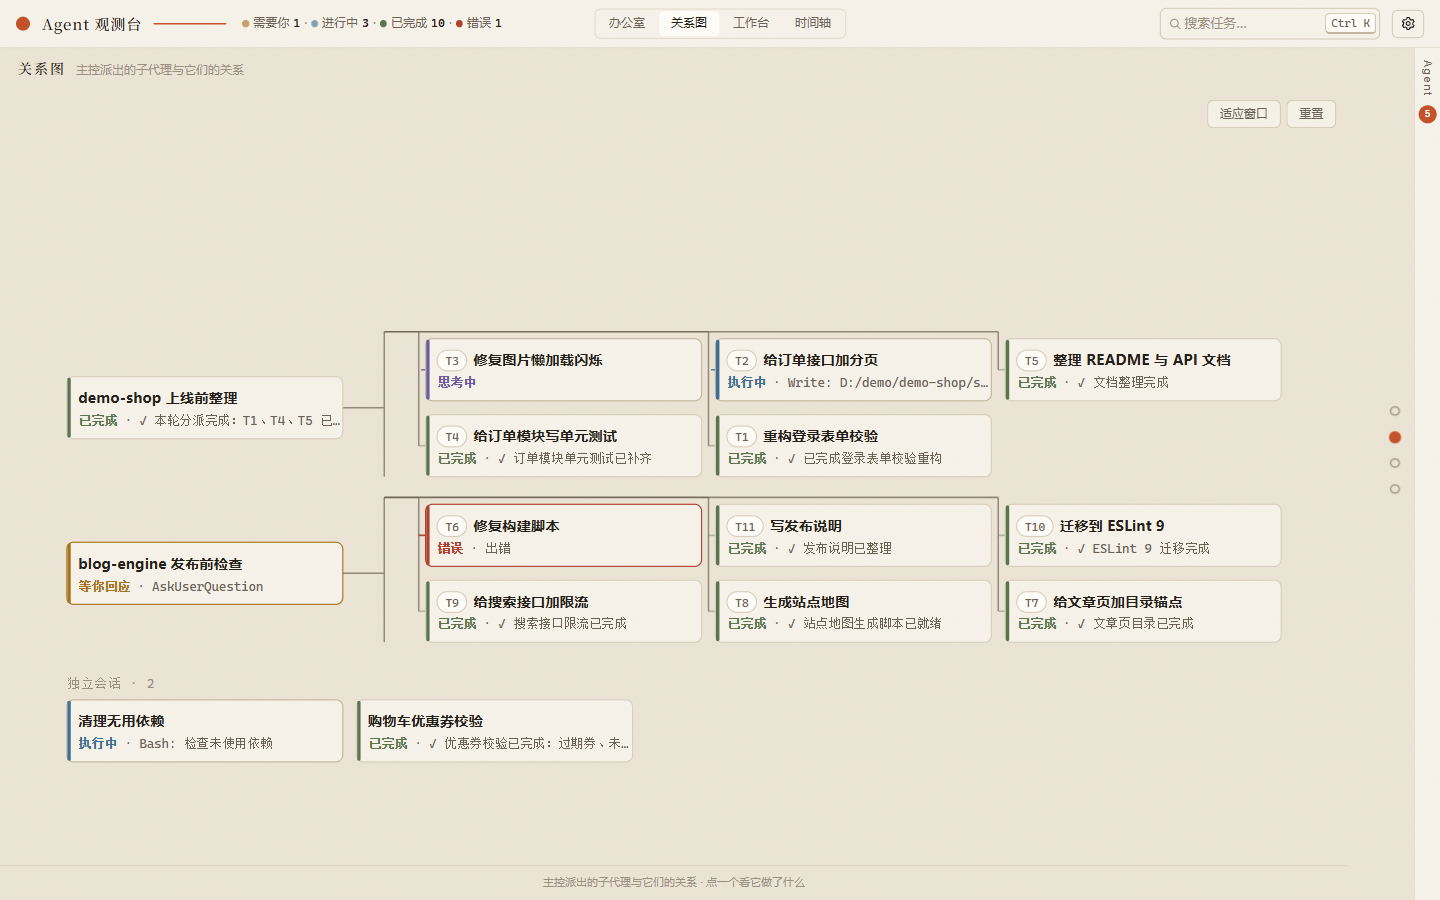
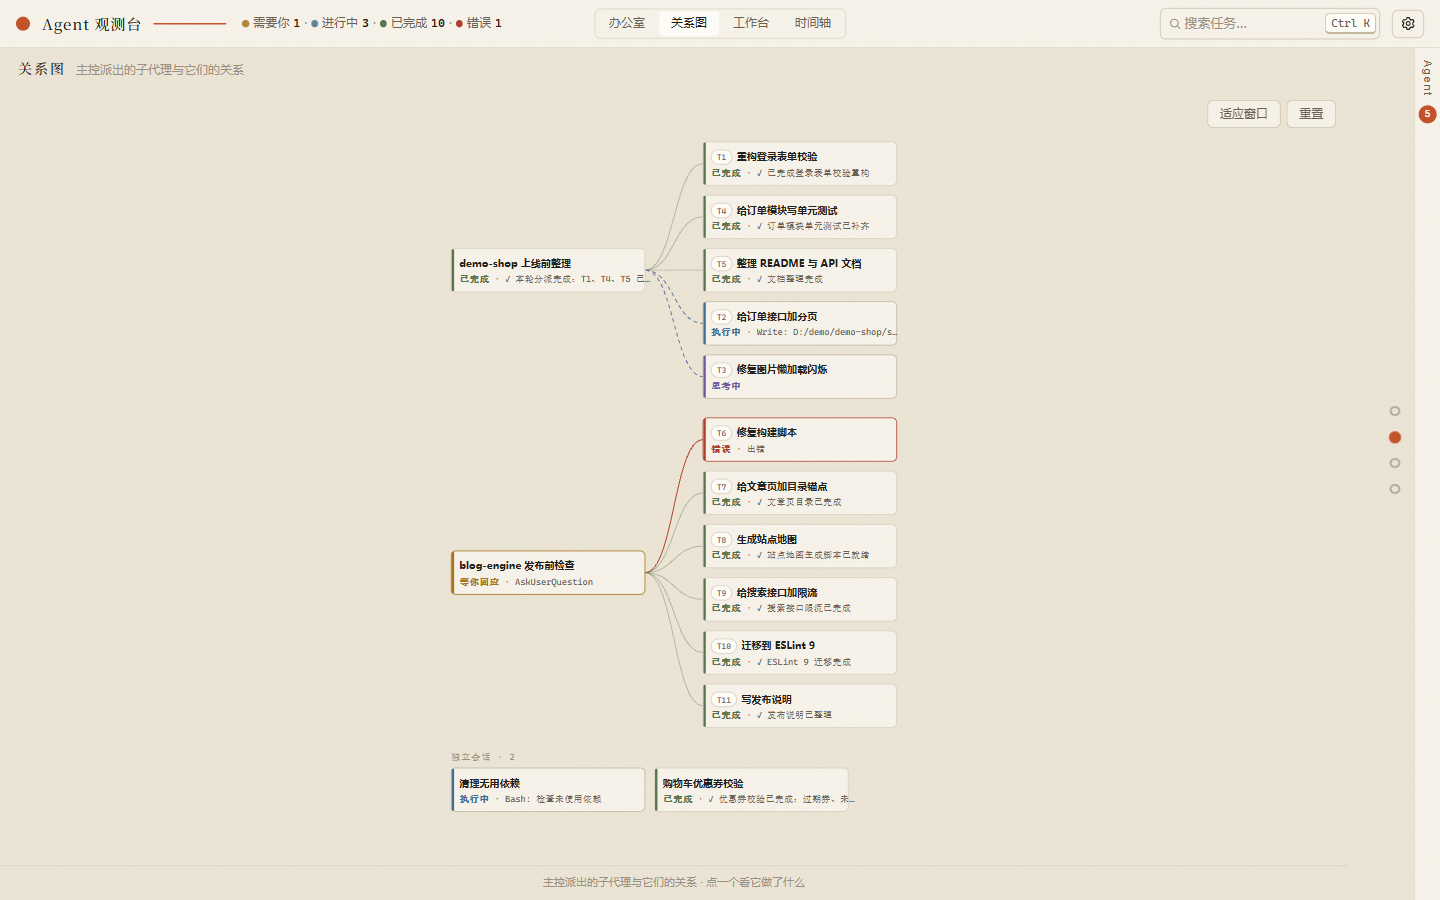
T12：关系图恢复按状态上色的连线

diff --git a/public/ui/topo.js b/public/ui/topo.js
@@ -27,7 +27,7 @@
   const GROUP_GAP = 24;
   const GRID_GAP = 12;
   const PAD = 32;
-  const SMALL_MAX = 4;     // above this a group switches to the bus + grid layout
+  const SMALL_MAX = 8;     // above this a group switches to the bus + grid layout
   const DONE_LIMIT = 12;   // more completed children than this fold into one node
 
   const SANS = '600 12.5px "Microsoft YaHei UI","PingFang SC",system-ui,sans-serif';
@@ -309,21 +309,37 @@
     const bottom = gridTop + gridH;
     const mx = PAD + NODE_W;
     const my = masterY + NODE_H / 2;
-    busList.push({ rootKey: rootS.key, d: `M${mx.toFixed(1)} ${my.toFixed(1)}H${busX.toFixed(1)}M${busX.toFixed(1)} ${feedY.toFixed(1)}V${bottom.toFixed(1)}` });
+    busList.push({ type: 'trunk', rootKey: rootS.key, d: `M${mx.toFixed(1)} ${my.toFixed(1)}H${busX.toFixed(1)}M${busX.toFixed(1)} ${feedY.toFixed(1)}V${bottom.toFixed(1)}` });
     colsData.forEach((nodes, col) => {
       if (!nodes.length) return;
       const colBusX = gridX + col * (NODE_W + GRID_GAP) - GRID_GAP / 2;
       const colBottom = Math.max(...nodes.map((n) => n.y + n.h / 2));
-      busList.push({ rootKey: rootS.key, d: `M${busX.toFixed(1)} ${feedY.toFixed(1)}H${colBusX.toFixed(1)}M${colBusX.toFixed(1)} ${feedY.toFixed(1)}V${colBottom.toFixed(1)}` });
+      busList.push({ type: 'trunk', rootKey: rootS.key, d: `M${busX.toFixed(1)} ${feedY.toFixed(1)}H${colBusX.toFixed(1)}M${colBusX.toFixed(1)} ${feedY.toFixed(1)}V${colBottom.toFixed(1)}` });
       for (const n of nodes) {
         const cy = n.y + n.h / 2;
-        busList.push({
-          rootKey: rootS.key,
-          d: `M${colBusX.toFixed(1)} ${cy.toFixed(1)}H${n.x.toFixed(1)}`,
-          to: n.summary ? `summary:${rootS.key}` : n.p.s.key,
-          status: n.summary ? 'done' : (n.p.s.status || 'idle'),
-          summary: !!n.summary,
-        });
+        const to = n.summary ? `summary:${rootS.key}` : n.p.s.key;
+        const status = n.summary ? 'done' : (n.p.s.status || 'idle');
+        if (!n.summary && ACTIVE.has(status)) {
+          // A live child keeps its whole route coloured and flowing: shared
+          // trunk from the master, the drop into its column and the stub. The
+          // dashes then read as one continuous path from master to child.
+          busList.push({
+            type: 'route',
+            rootKey: rootS.key,
+            to,
+            status,
+            d: `M${mx.toFixed(1)} ${my.toFixed(1)}H${busX.toFixed(1)}V${feedY.toFixed(1)}H${colBusX.toFixed(1)}V${cy.toFixed(1)}H${n.x.toFixed(1)}`,
+          });
+        } else {
+          busList.push({
+            type: 'branch',
+            rootKey: rootS.key,
+            d: `M${colBusX.toFixed(1)} ${cy.toFixed(1)}H${n.x.toFixed(1)}`,
+            to,
+            status,
+            summary: !!n.summary,
+          });
+        }
       }
     });
     return { h: Math.max(groupH, tailBottom - y), right: Math.max(gridRight, tailRight) };
@@ -445,7 +461,7 @@
   }
 
   function busMarkup(b) {
-    if (!b.to) {
+    if (b.type === 'trunk') {
       const hi = hoverKey && hoverKey === b.rootKey;
       return `<path class="topo-bus${hi ? ' is-hi' : ''}" data-from="${esc(b.rootKey)}" d="${b.d}"/>`;
     }

diff --git a/public/ui/tokens.css b/public/ui/tokens.css
@@ -2664,14 +2664,14 @@ html[data-theme="dark"] {
 .topo-act { fill: var(--muted); }
 .topo-sec-label { fill: var(--faint); font: 11px var(--font-mono); letter-spacing: .08em; }
 .topo-edge { fill: none; stroke: var(--edge); stroke-width: 1.2; transition: opacity .15s ease; }
+.topo-edge.is-hi { stroke-width: 2; }
 .topo-edge.is-done { opacity: .4; }
 .topo-edge.is-wait { opacity: .8; }
-.topo-edge.is-error { opacity: .95; }
+.topo-edge.is-error { opacity: 1; }
 .topo-edge.is-live { opacity: .9; stroke-dasharray: 5 4; }
-.topo-edge.is-bus { stroke-width: 1.5; }
 .topo-edge.is-summary { stroke-dasharray: 2 3; opacity: .6; }
-.topo-bus { fill: none; stroke: var(--muted); stroke-width: 1.4; opacity: .7; }
-.topo-bus.is-hi { stroke: var(--ink); opacity: .9; }
+.topo-bus { fill: none; stroke: var(--line-strong); stroke-width: 1; opacity: .85; }
+.topo-bus.is-hi { stroke-width: 2; opacity: 1; }
 .topo-summary .topo-node-bg { fill: color-mix(in srgb, var(--ink) 4%, var(--panel)); stroke: var(--line-strong); stroke-dasharray: 3 3; }
 .topo-summary { cursor: pointer; }
 .topo-summary:hover .topo-node-bg { stroke: var(--accent); }
@@ -2680,6 +2680,7 @@ html[data-theme="dark"] {
 @keyframes topo-flow { to { stroke-dashoffset: -9; } }
 .topo-view.is-hovering .topo-node:not(.is-hi),
 .topo-view.is-hovering .topo-edge:not(.is-hi),
+.topo-view.is-hovering .topo-bus:not(.is-hi),
 .topo-view.is-hovering .topo-sec-label { opacity: .35; }
 .topo-tools { position: absolute; z-index: 2; top: var(--sp-3); right: var(--sp-3); display: flex; gap: 6px; }
 .topo-tools .ui-btn { background: color-mix(in srgb, var(--panel) 88%, transparent); backdrop-filter: blur(6px); }
